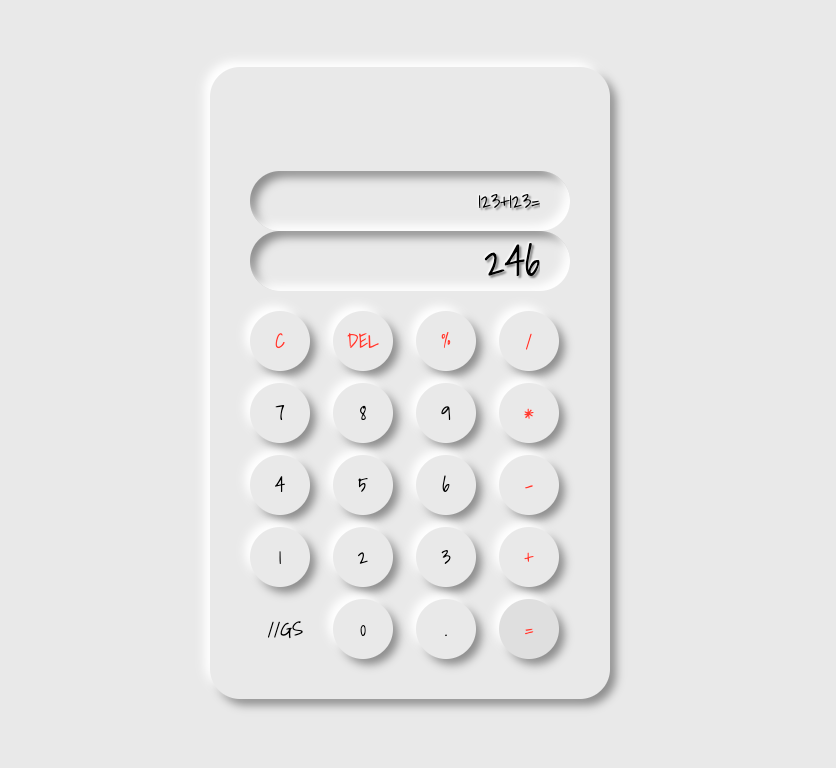
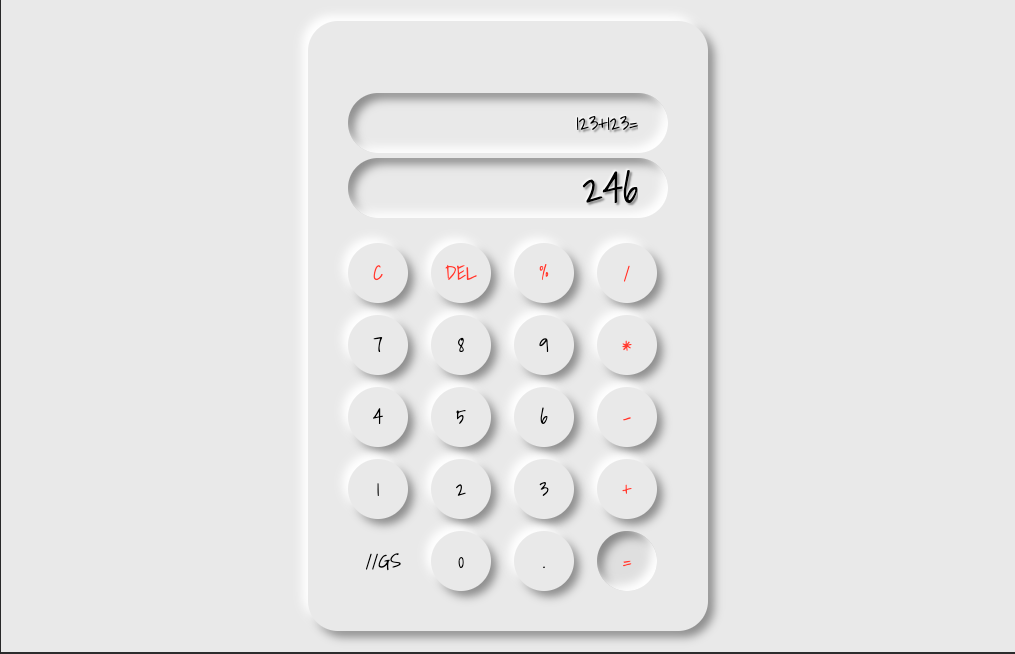
add changes

Changed region(s): [[0.0, 0.0612, 1.0, 1.0], [0.5287, 0.5199, 0.5909, 0.581], [0.2799, 0.2446, 0.311, 0.2752]]

diff --git a/src/components/Layout.js b/src/components/Layout.js
@@ -40,7 +40,6 @@ const Layout = (props) => {
   return (
     <div className="frame">
       <div className="calculator">
-        <br></br>
         <img />
         <Output user={input} answer={result} />
         <div className="keys">

diff --git a/src/components/OutputRow.css b/src/components/OutputRow.css
@@ -9,6 +9,7 @@
   width: 320px;
   height: 60px;
   padding: 15px 30px;
+  margin-bottom: 5px;
   text-align: right;
   border: none;
   border-radius: 30px;
